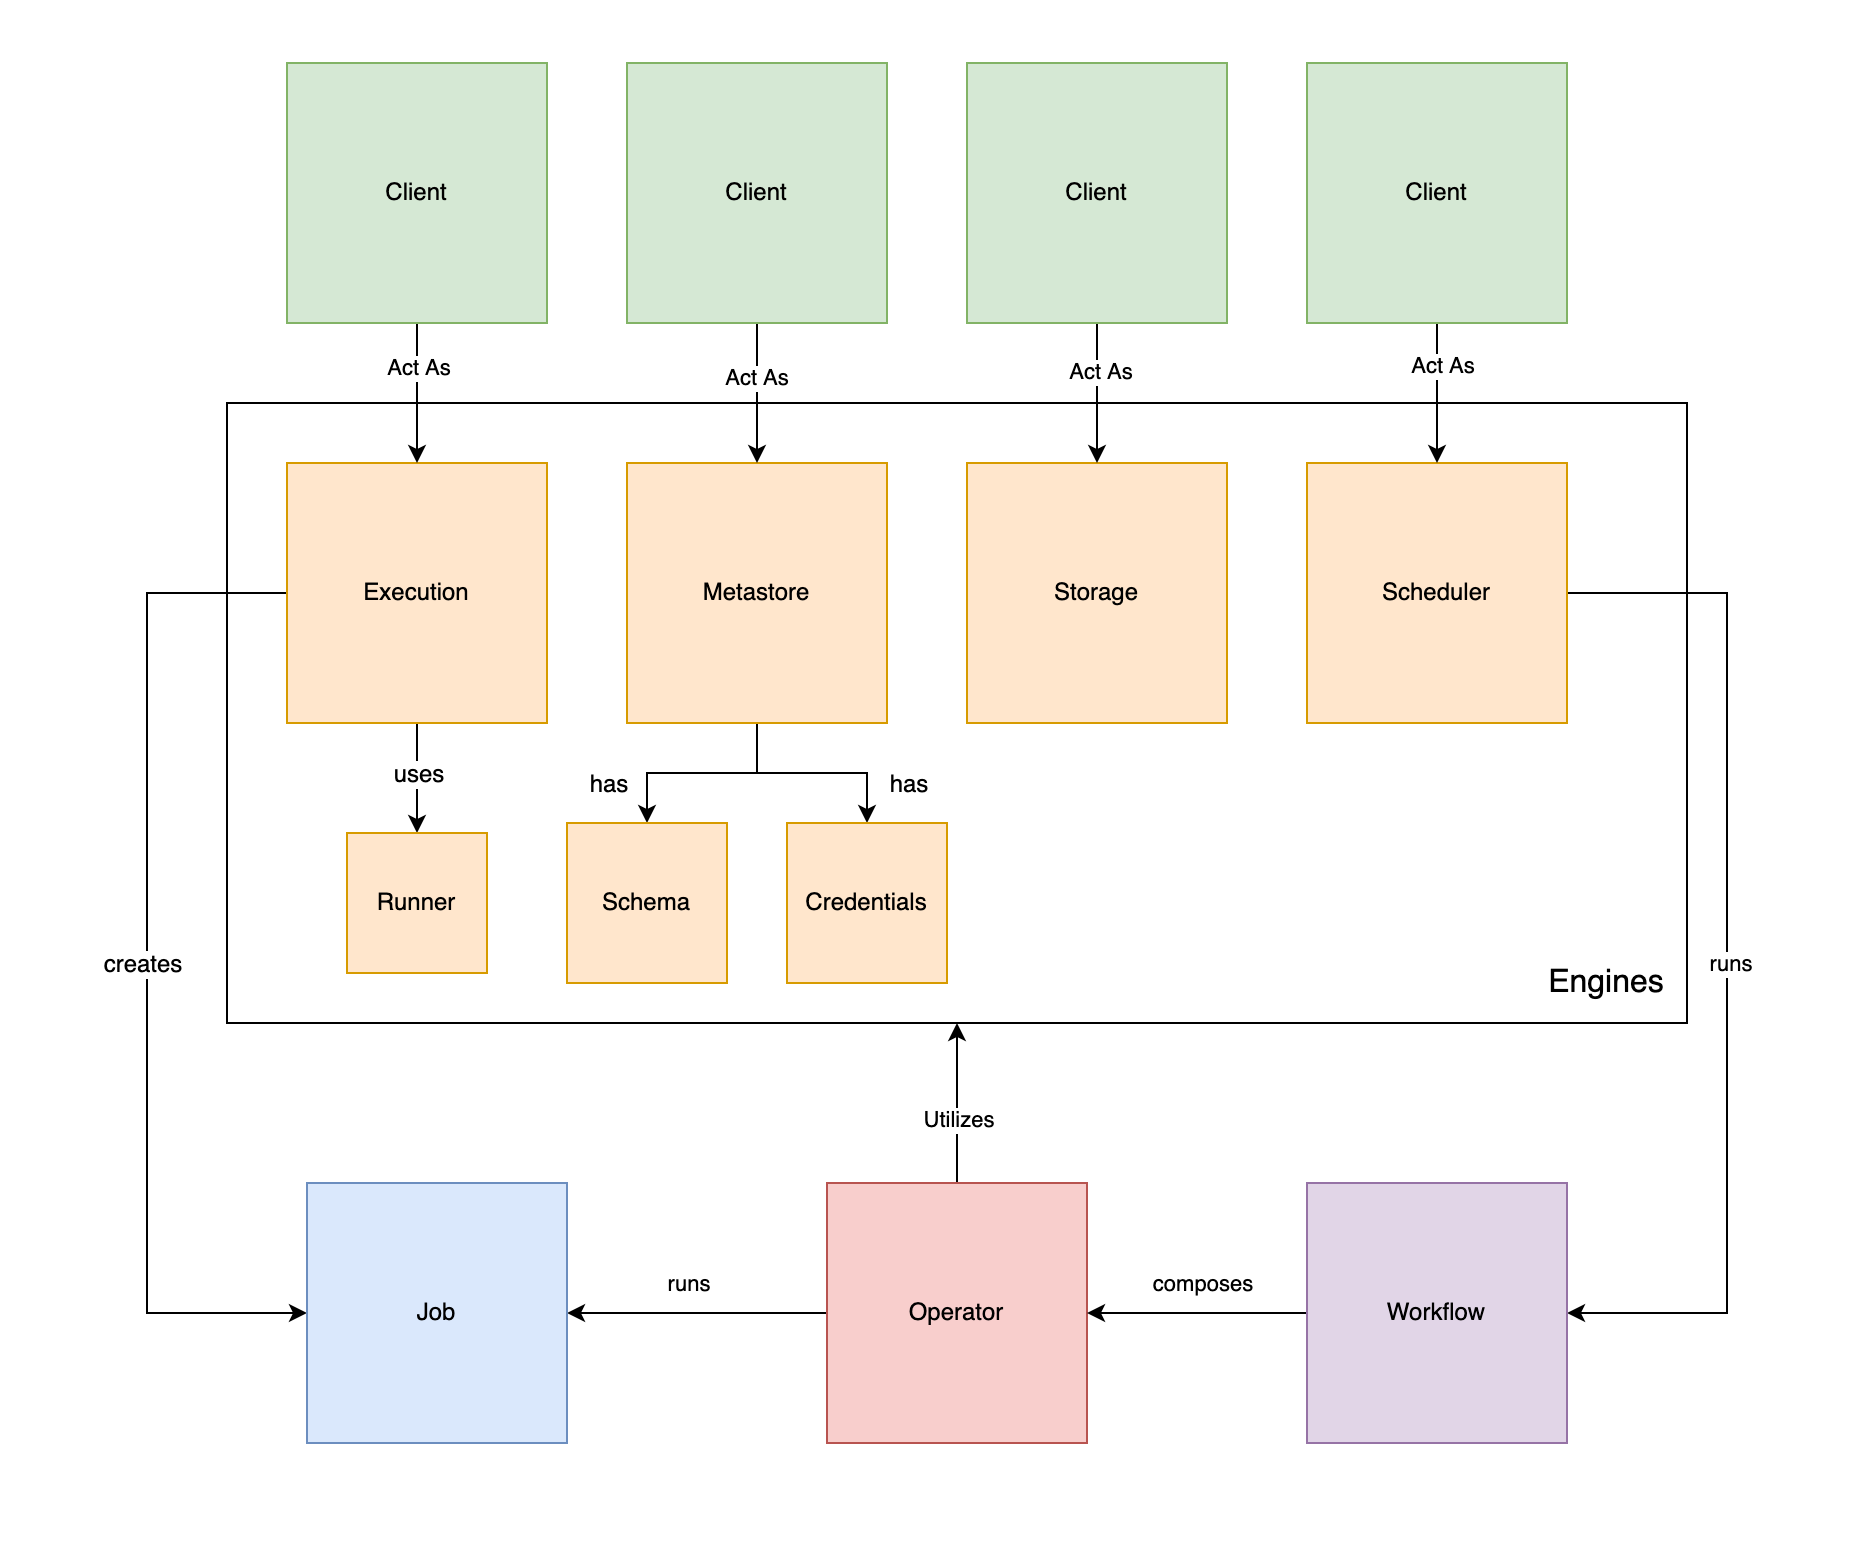
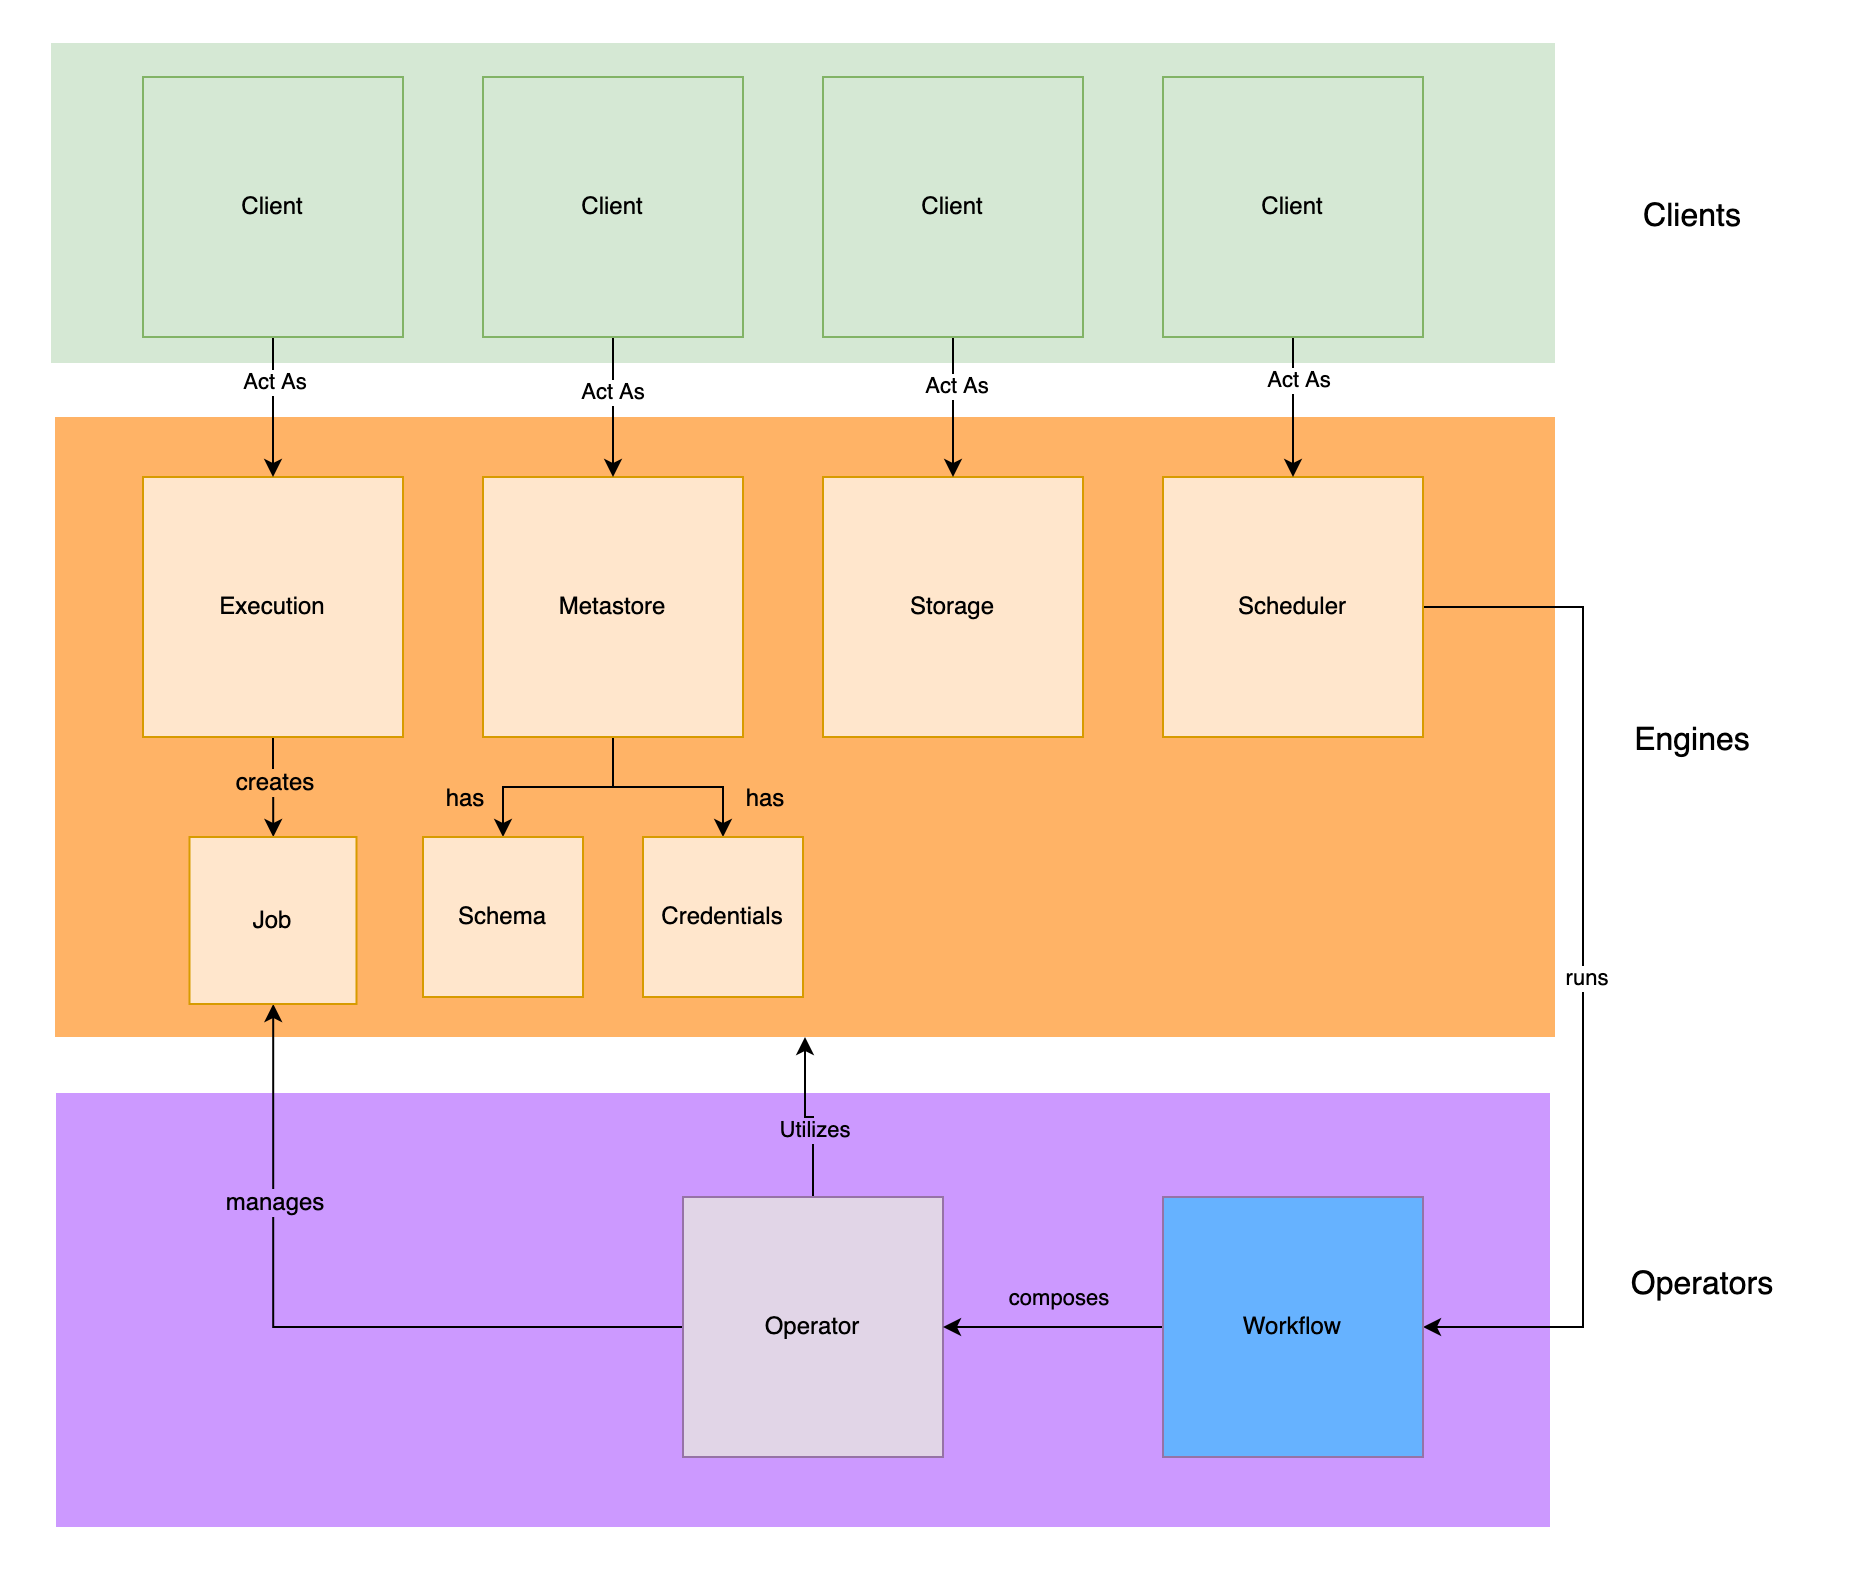
Updating UML diagram, more progress on workflows

diff --git a/workflows/__init__.py b/workflows/__init__.py
@@ -4,7 +4,6 @@ from importlib import import_module
 from util.yaml import parse_yaml
 from typing import Optional
 from configurations import Config
-from parameters import Parameters
 from clients.response import Response
 from util.printer import banner
 from sys import path
@@ -12,8 +11,6 @@ from util.json_schema import validate_schema
 from typing import List
 from util.logger import logger
 from util.json import print_json
-import yaml
-from operators.operator import Operator
 from definitions import from_root
 from typing import Dict
 from util.environment import MasonEnvironment
@@ -25,7 +22,7 @@ def import_all(env: MasonEnvironment, config: Config):
     workflows = list_workflows(env)
     for namespace, ops in workflows.items():
         for op in ops:
-            cmd = op.subcommand
+            cmd = op.command
             import_module(f"{env.workflow_module}.{namespace}.{cmd}")
 
 def run(env: MasonEnvironment, config: Config, cmd: Optional[str] = None, subcmd: Optional[str] = None):
@@ -41,14 +38,14 @@ def run(env: MasonEnvironment, config: Config, cmd: Optional[str] = None, subcmd
         wf: Optional[Workflow] = get_workflow(env, cmd, subcmd)
 
         if wf:
-            response = workflow.run(env, config, response)
+            response = wf.run(env, config, response)
         else:
             if not response.errored():
                 response.add_error(f"Workflow {cmd} {subcmd} not found.  Check workflows with 'mason workflow'")
 
         banner("Workflow Response")
         print_json(response.formatted())
-        return response
+    return response
 
 def from_config(config: dict, source_path: Optional[str] = None) -> Optional[Workflow]:
     namespace = config.get("namespace")
@@ -57,7 +54,7 @@ def from_config(config: dict, source_path: Optional[str] = None) -> Optional[Wor
     if namespace and command:
         return Workflow(namespace, command, source_path=source_path)
     else:
-        None
+        return None
 
 def validate_workflows(workflow_file: str, print_validation: bool = False):
     workflows: List[Workflow] = []
@@ -95,10 +92,10 @@ def list_workflows(env: MasonEnvironment, cmd: Optional[str] = None) -> Dict[str
 
     return filtered
 
-def get_workflow(env: MasonEnvironment, cmd: Optional[str], subcmd: Optional[str]) -> Optional[Operator]:
+def get_workflow(env: MasonEnvironment, cmd: Optional[str], subcmd: Optional[str]) -> Optional[Workflow]:
     if cmd and subcmd:
         wfs: List[Workflow] = list_workflows(env, cmd).get(cmd) or []
-        filtered = list(filter(lambda x: x.subcommand == subcmd, wfs))
+        filtered = list(filter(lambda x: x.command == subcmd, wfs))
         if len(filtered) == 0:
             return None
         else:
@@ -111,11 +108,11 @@ def tabulate_workflows(env: MasonEnvironment, cmd: Optional[str] = None):
     array = []
     if cmd:
         for item in ops[cmd]:
-            array.append([cmd, item.subcommand, item.description, item.parameters])
+            array.append([item.namespace, item.command, item.description or ""])
     else:
         for k in ops:
             for item in ops[k]:
-                array.append([k, item.subcommand, item.description, item.parameters])
+                array.append([item.namespace, item.command, item.description or ""])
 
     cmd_value = (cmd or "Workflow")
     logger.info()

diff --git a/cli/__init__.py b/cli/__init__.py
@@ -86,7 +86,7 @@ def operator(cmd: Optional[str] = None, subcmd: Optional[str] = None, parameters
     Running with both cmd and subcmd will execute the operator or print out missing required parameters.
     """
     env = MasonEnvironment()
-    config = get_current_config(env, "debug")  # return first config for now
+    config = get_current_config(env, "debug")
 
     logger.set_level(log_level or "info")
 
@@ -108,13 +108,16 @@ def workflow(cmd: Optional[str] = None, subcmd: Optional[str] = None, log_level:
     Running with -r registers workflow from specified <workflow_file>, workflow_file must contain a valid workflow.yaml
     """
     env = MasonEnvironment()
+    config = get_current_config(env, "debug")
 
-    if path.exists(env.config_home):
+    if config:
         if cmd == "register":
             logger.set_level(log_level)
             register_file = subcmd
-            workflows, errors = Workflows.validate_workflows(register_file, True)
-
+            if register_file:
+                workflows, errors = Workflows.validate_workflows(register_file, True)
+            else:
+                logger.error("No file path provided to register operator")
             if len(workflows) > 0:
                 for workflow in workflows:
                     workflow.register_to(env.workflow_home)

diff --git a/workflows/workflow.py b/workflows/workflow.py
@@ -10,14 +10,16 @@ from util.logger import logger
 
 class Workflow:
 
-    def __init__(self, namespace: str, command: str, source_path: Optional[str] = None):
+    def __init__(self, namespace: str, command: str, description: Optional[str] = None, source_path: Optional[str] = None):
         self.namespace = namespace
         self.command = command
+        self.description = description
+        self.source_path = source_path
 
     def register_to(self, workflow_home: str):
         if self.source_path:
             dir = path.dirname(self.source_path)
-            tree_path = ("/").join([workflow_home.rstrip("/"), self.cmd, self.subcommand + "/"])
+            tree_path = ("/").join([workflow_home.rstrip("/"), self.namespace, self.command + "/"])
             if not path.exists(tree_path):
                 shutil.copytree(dir, tree_path)
             else:

diff --git a/util/environment.py b/util/environment.py
@@ -19,7 +19,7 @@ class MasonEnvironment:
         self.operator_home: str = operator_home or (self.mason_home + "registered_operators/")
         self.workflow_home: str = workflow_home or (self.mason_home + "registered_workflows/")
         self.operator_module = operator_module or "registered_operators"
-        self.operator_module = workflow_module or "registered_workflows"
+        self.workflow_module = workflow_module or "registered_workflows"
         self.config_schema = from_root("/configurations/schema.json")
 
 def get_mason_home() -> str:

diff --git a/test/playground_test.py b/test/playground_test.py
@@ -175,6 +175,8 @@ class TestPlayground:
         print_result(result3)
         result4 = runner.invoke(workflow, ["register", from_root("/examples/workflows/"), "-l", "trace"])
         print_result(result4)
+        result5 = runner.invoke(workflow)
+        print_result(result5)
 
 
 
